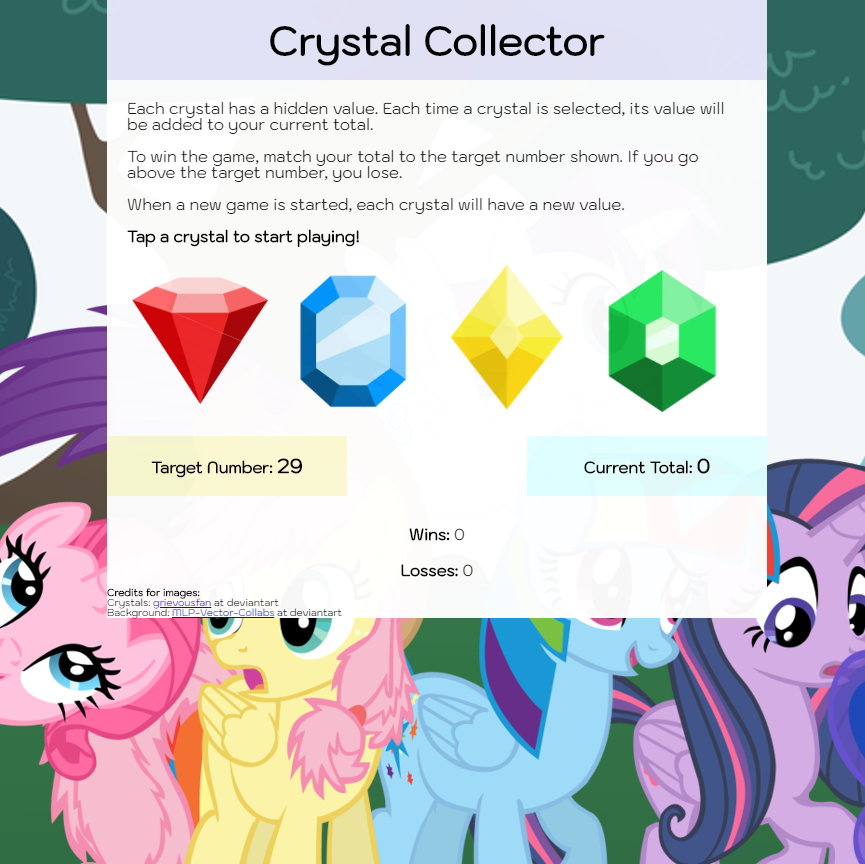
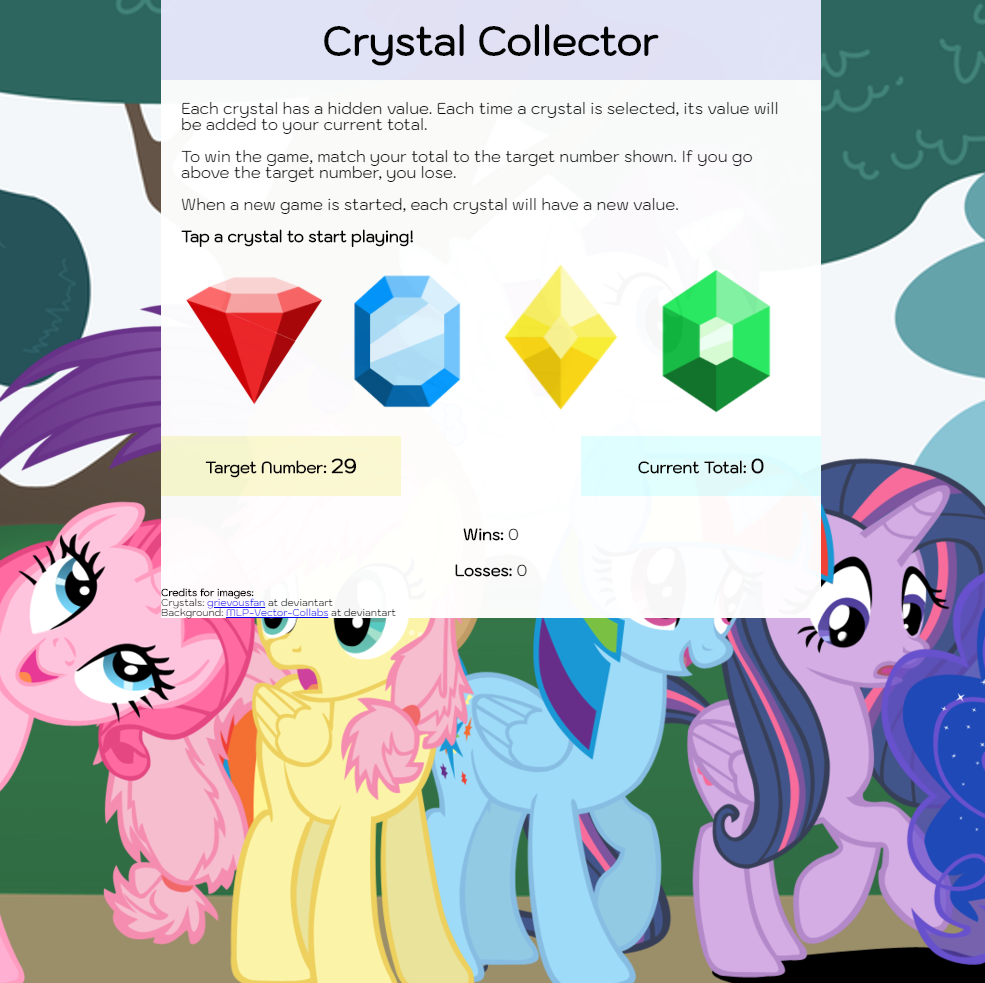
thumbnail ponies

diff --git a/indexnew.html b/indexnew.html
@@ -163,7 +163,7 @@
         </div>
         
         <div class="work">
-          <a class="noborder" href="https://plsenh.github.io/unit-4-game/" target="_blank"><img src="assets/images/projects/crystal_collector2.PNG"
+          <a class="noborder" href="https://plsenh.github.io/unit-4-game/" target="_blank"><img src="assets/images/projects/crystal_collector3.PNG"
               alt="Crystal Collector">
             <h3>Crystal Collector</h3>
           </a>

diff --git a/portfolio.html b/portfolio.html
@@ -118,7 +118,7 @@
         </div>
         
         <div class="work">
-          <a class="noborder" href="https://plsenh.github.io/unit-4-game/" target="_blank"><img src="assets/images/projects/crystal_collector2.PNG"
+          <a class="noborder" href="https://plsenh.github.io/unit-4-game/" target="_blank"><img src="assets/images/projects/crystal_collector3.PNG"
               alt="Crystal Collector">
             <h3>Crystal Collector</h3>
           </a>
